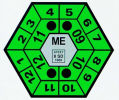
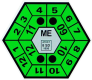
STK and EK images resized.

diff --git a/rzgenerator.py b/rzgenerator.py
@@ -135,15 +135,15 @@ def main():
 
 			#STK
 			if i % 2 == 0:
-				stk_img = Image.open('/home/svoren258/Dokumenty/FIT_VUT/3_BIT/IBP/IBP/CZ/stk3.png','r')
-				stk_offset = (673,45) #(680,58)
-				background.paste(stk_img, stk_offset)
+				stk_img = Image.open('/home/svoren258/Dokumenty/FIT_VUT/3_BIT/IBP/IBP/CZ/stk7.png','r')
+				stk_offset = (693,63) #(680,58)
+				background.paste(stk_img, stk_offset, stk_img)
 
-			# #EK
-			# if i % 4 == 0:
-			# 	ek_img = Image.open('/home/svoren258/Dokumenty/FIT_VUT/3_BIT/IBP/IBP/CZ/ek.png','r')
-			# 	ek_offset = (680,183)
-			# 	background.paste(ek_img, ek_offset)
+			#EK
+			if i % 4 == 0:
+				ek_img = Image.open('/home/svoren258/Dokumenty/FIT_VUT/3_BIT/IBP/IBP/CZ/ek.png','r')
+				ek_offset = (695,188)
+				background.paste(ek_img, ek_offset, ek_img)
 
 			offsets = [(205,53),(358,53),(511,53),(854,53),(1007,53),(1160,53),(1313,53)]
 
@@ -194,7 +194,7 @@ def main():
 		            raise
 
 		txtfile = open(textdir + 'rz' + str(i) + '.png.txt','w')
-		txtfile.write(str(characters))
+		txtfile.write(str(characters)+ ' ' + nation)
 		txtfile.close()
 		background.save(outputdir + 'rz' + str(i) + '.png')
 main()

diff --git a/supertool.py b/supertool.py
@@ -133,10 +133,12 @@ def createJson(file_name, coordinates, outputDir, i):
 	#open txt file with registration number and add max and min x and y coordinates and save in final directory as 00x.jpg.txt
 	txtfile = open(path_to_rz + file_name + '.txt','r')
 	reg_num = txtfile.readline()
+	info = reg_num.split()
 	txtfile.close()
 
 	data = {
-		'lp_text' : reg_num,
+		'lp_text' : info[0],
+		'nation' : info[1],
 		'point0' : coordinates[0],
 		'point1' : coordinates[1],
 		'point2' : coordinates[2],
